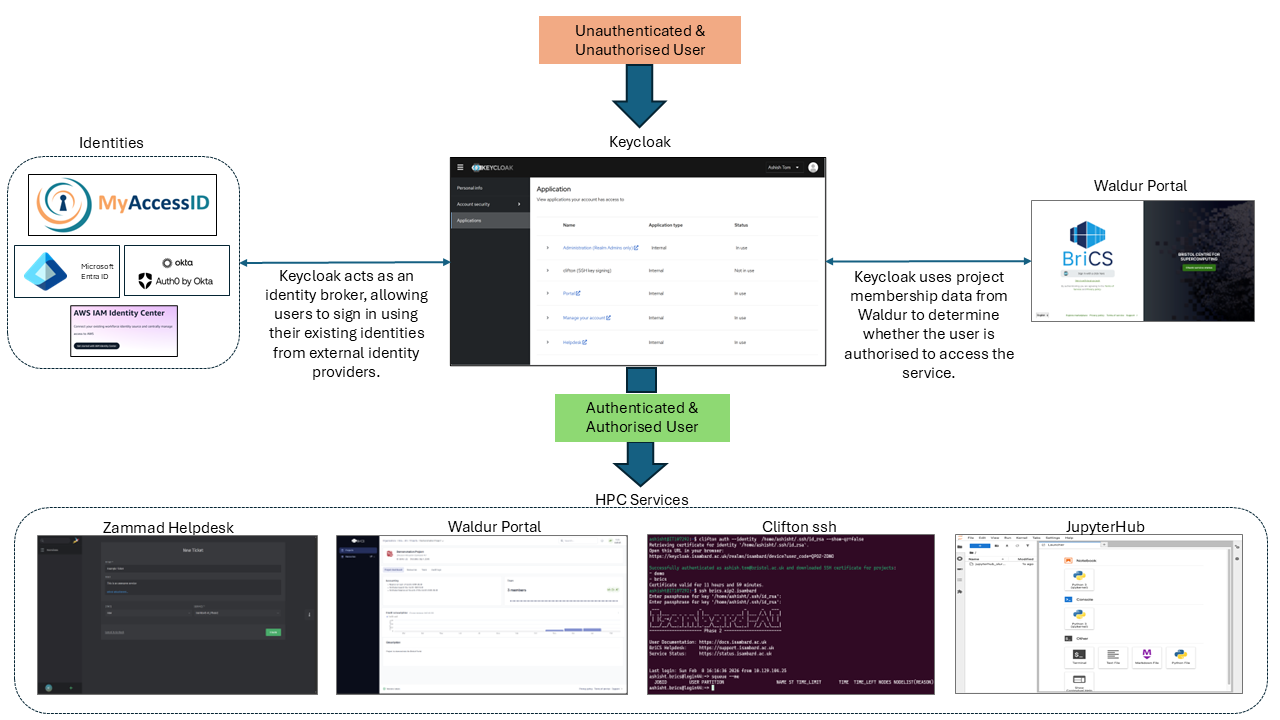
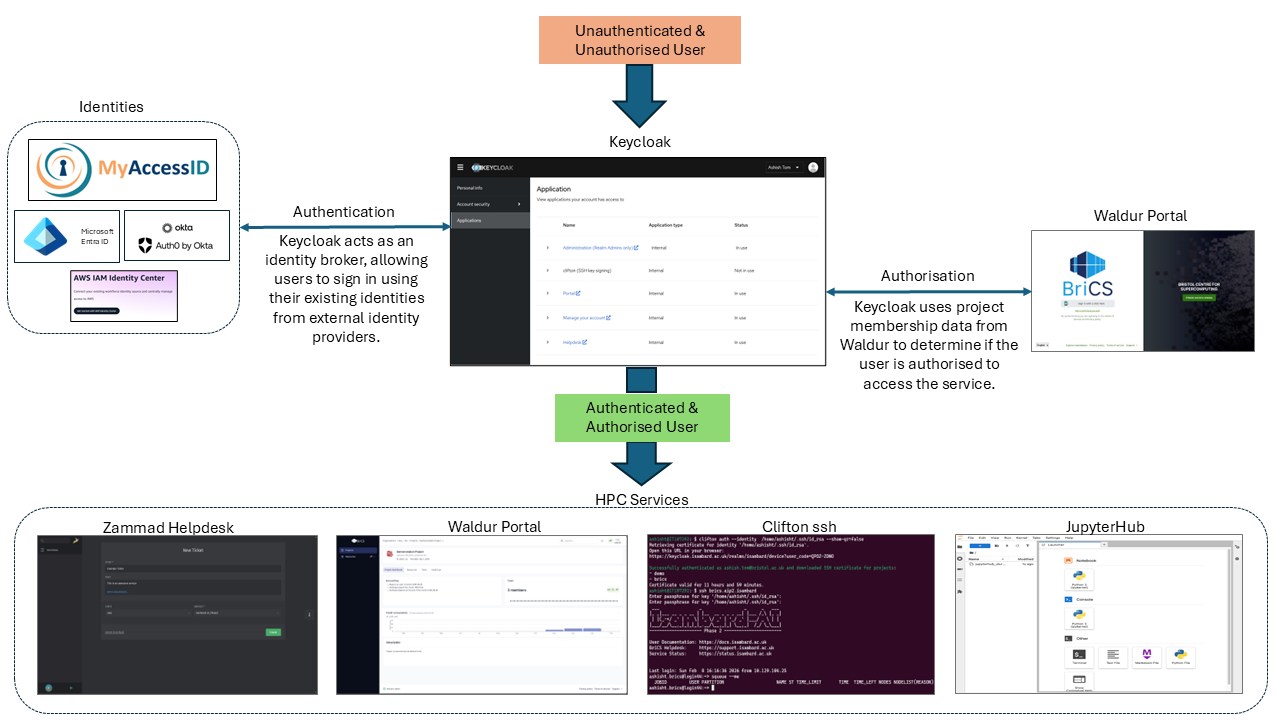
add details on mappers for claims

diff --git a/docs/myaccessid-keycloak-setup.md b/docs/myaccessid-keycloak-setup.md
@@ -113,14 +113,12 @@ Keycloak is configured to automatically create user accounts the first time a us
 
 #### Attributes, Claims, and Scopes
 
-The configuration of attributes, claims, and scopes may vary between DRI sites depending on local requirements.
-
+The configuration of attributes, along with their corresponding scopes and claims, may vary between DRI sites depending on local requirements.
 For example, at BriCS, the attributes of interest are:
 
 - Email address  
 - First name  
 - Last name  
-- Community User Identifier  
 
 To request these attributes from MyAccessID, the **Scopes** field under the advanced settings is configured as:
 
@@ -128,9 +126,15 @@ To request these attributes from MyAccessID, the **Scopes** field under the adva
 
 ![keycloak-mappers](./images/bristol-keycloak-mappers.png)
 
-The corresponding **mappers** are configured in Keycloak to consume and map these attributes into the user account, as shown above.
+Note that `openid` is the default scope when using OIDC authentication. This is a mandatory scope as defined by the OIDC specification, and the associated `sub` claim uniquely identifies the user. For MyAccessID, this corresponds to the [Community User Identifier](https://wiki.geant.org/spaces/MyAccessID/pages/685769423/Attributes+available+to+Relying+Parties#AttributesavailabletoRelyingParties-CommunityUserIdentifier).
 
-TODO: elaborate on mappers:- what are being mapped and how and touch on email being subject ID, compare configs for this and attributes with Cambridge
+To consume the required claims and map them to attributes in the user account, **mappers** are configured as shown above. The relationship between the claims in the OIDC token and the attributes in Keycloak is shown below:
+
+| Claim       | Mapper Type        | Attribute  |
+|-------------|--------------------|------------|
+| email       | Attribute Importer | email      |
+| given_name  | Attribute Importer | firstName  |
+| family_name | Attribute Importer | lastName   |
 
 Additionally, users authenticating via MyAccessID are configured to be automatically assigned to a dedicated Keycloak group using the **ForceMyAccessIDGroup Mapper**. This grouping simplifies management and policy enforcement for users who log in through MyAccessID.
 
